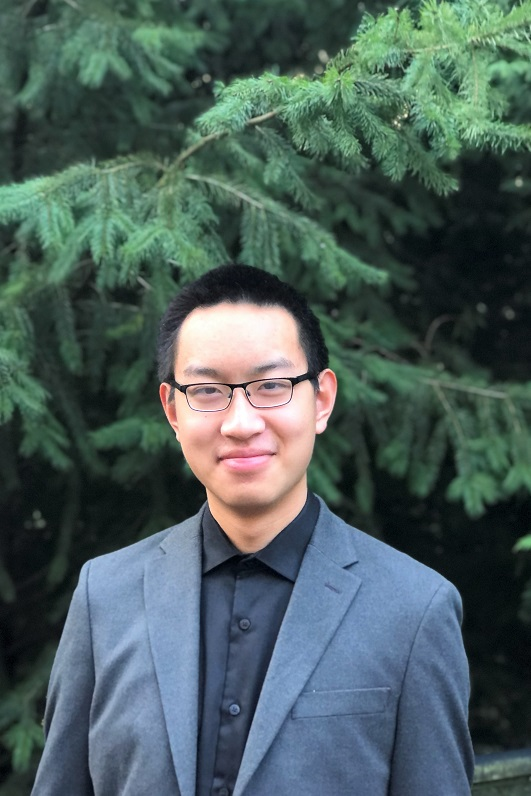
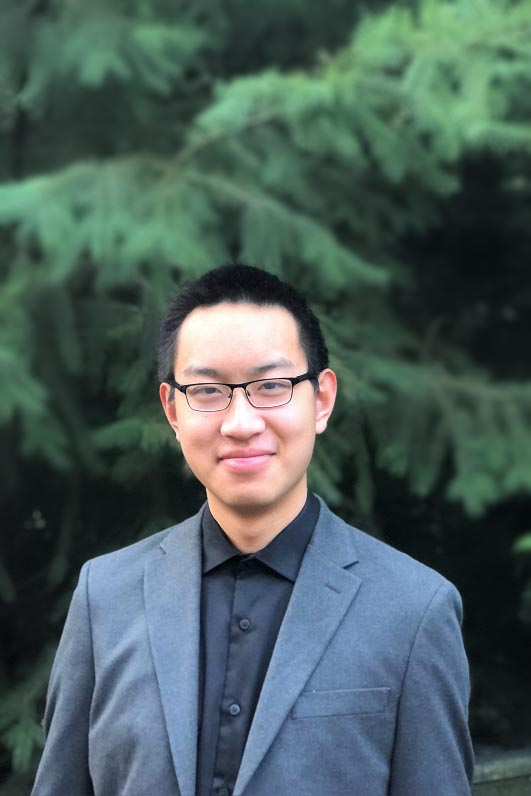
update

diff --git a/_pages/pvsa.md b/_pages/pvsa.md
@@ -43,7 +43,7 @@ feature_row2:
     excerpt: "<p><a href='http://pdxchinese.org/pvsafiles/2021_Sophia_Pi/'>Sophia Pi, Jesuit High School (Silver Award)</a></p>"
   - image_path: /assets/images/pvsa/2021_blank.jpg
     excerpt: "<p><a href='http://pdxchinese.org/pvsafiles/2021_Eleanor_Song/'>Eleanor Song, Sunset High School (Silver Award)</a></p>"
-  - image_path: /assets/images/pvsa/2021_blank.jpg
+  - image_path: /assets/images/pvsa/2021_Ethan_Zhang.jpg
     excerpt: "<p><a href='http://pdxchinese.org/pvsafiles/2021_Ethan_Zhang/'>Ethan Zhang, Westview High School (Silver Award)</a></p>"
   - image_path: /assets/images/pvsa/2021_blank.jpg
     excerpt: "<p><a href='http://pdxchinese.org/pvsafiles/2021_Lucas_Zhang/'>Lucas Zhang, Stoller Middle School (Silver Award)</a></p>"
